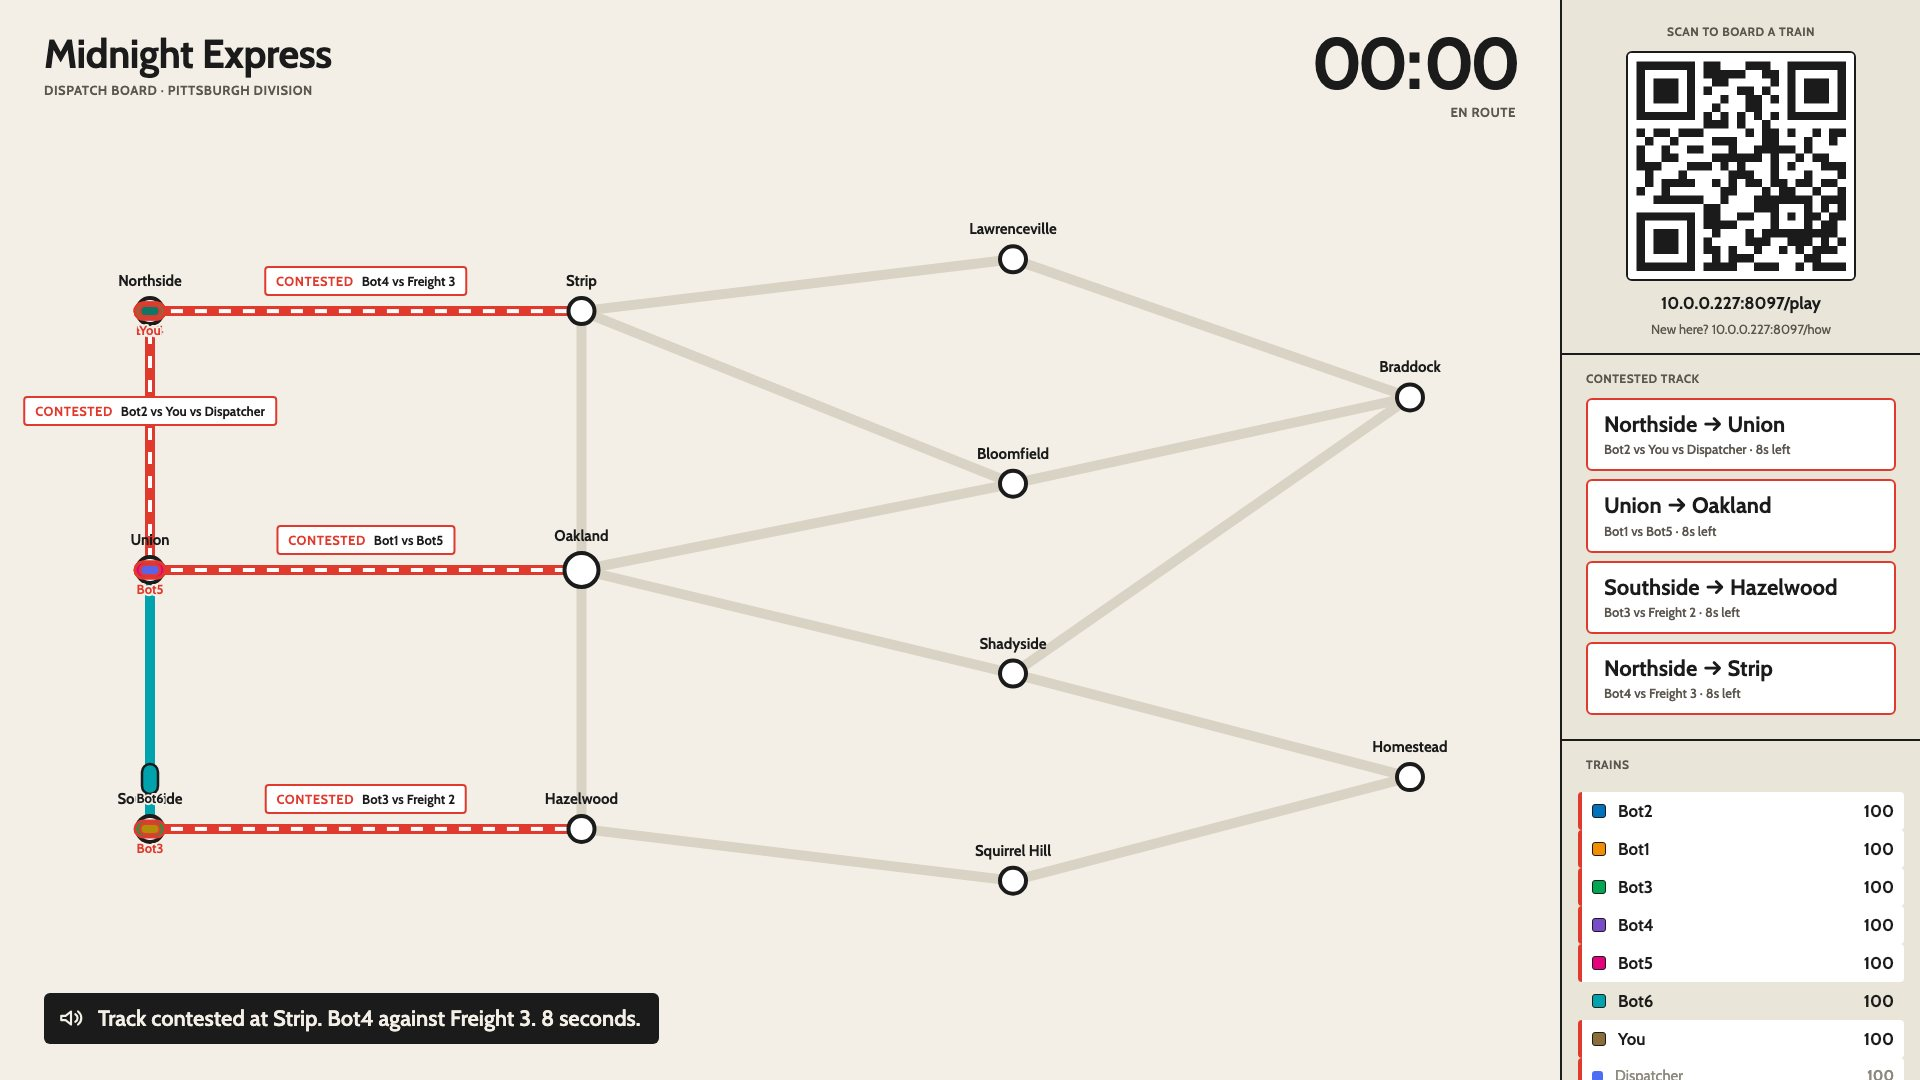
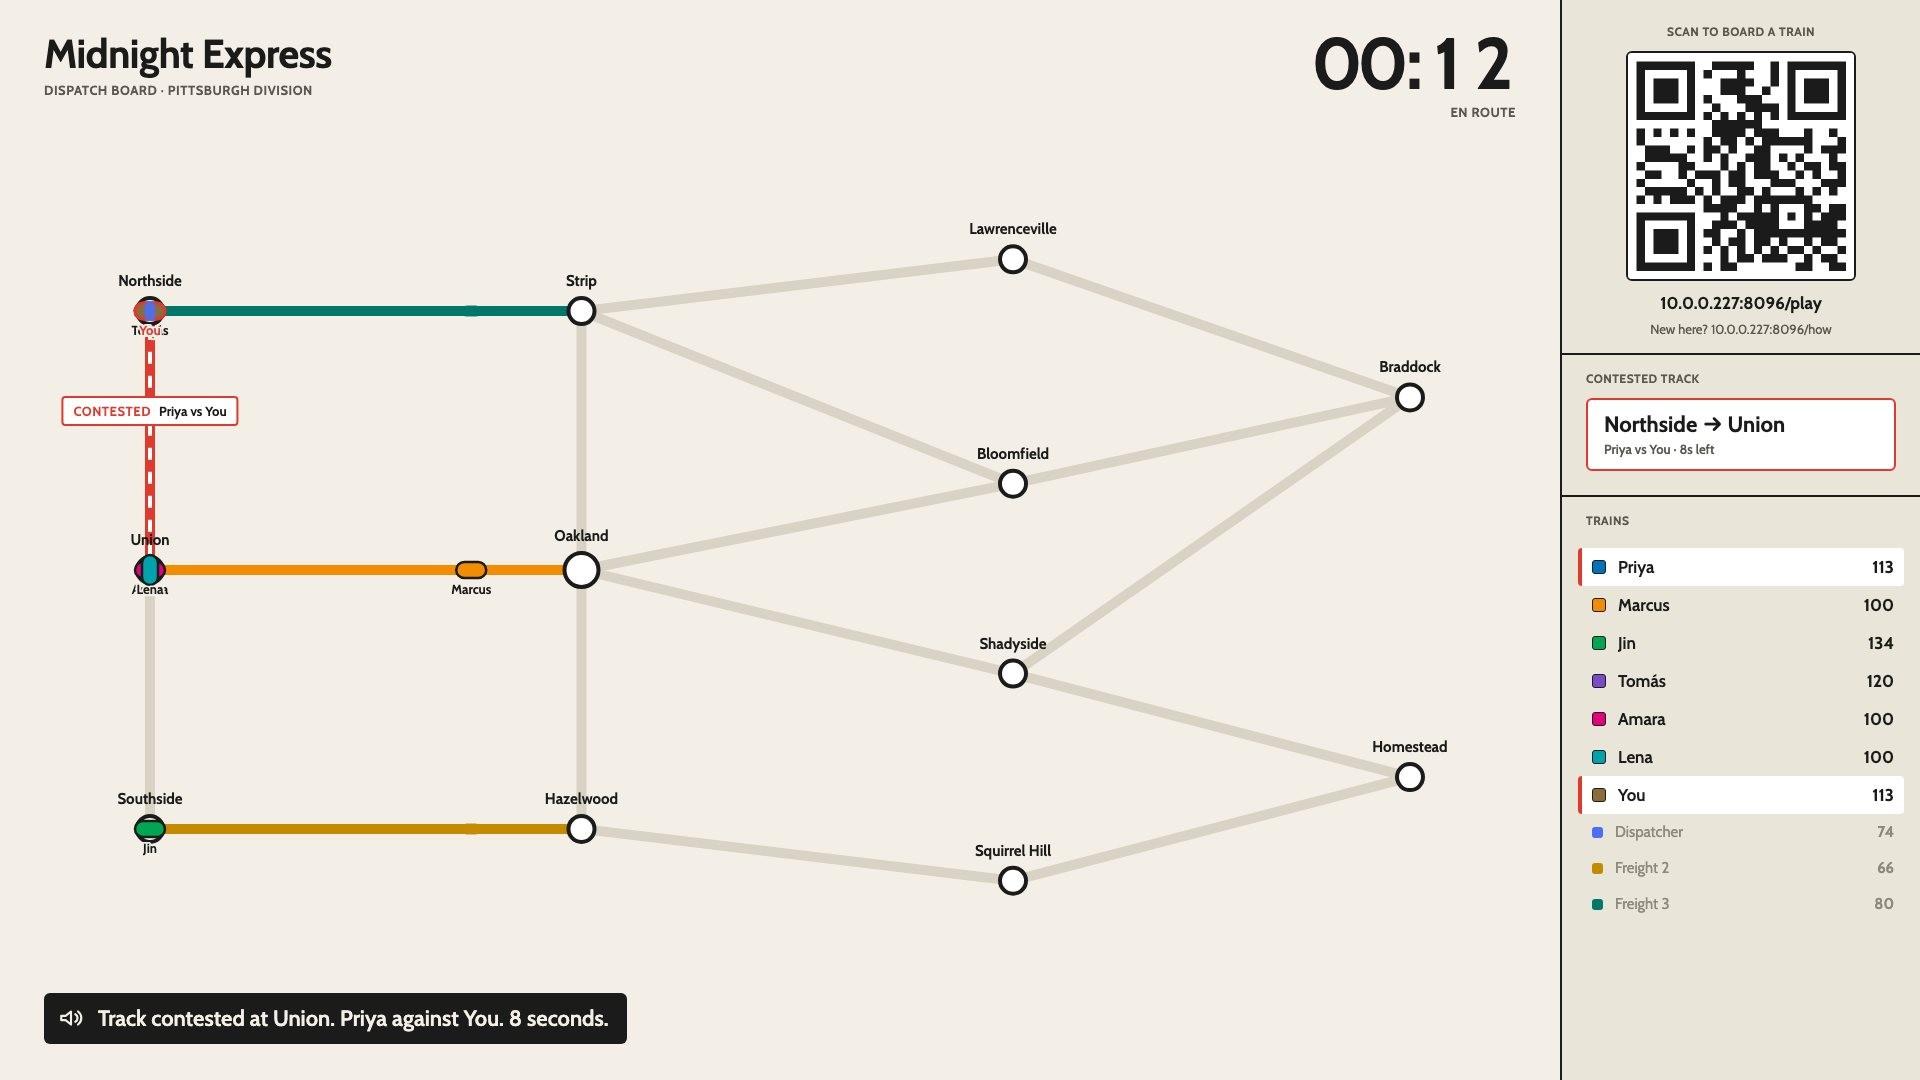
screenshots: named bots, mid-run contest capture, share-image composer
loadtest.js takes BOT_NAMES so simulated phones can carry human names in
screenshots and demos. howto-shots.mjs waits for a contest after the trains have
spread out instead of grabbing the departure pile-up. share-image.mjs composes a
1920x1080 share image (board + two phone states + caption) from public/img with
assets inlined as data URIs, for posts and slides. README and rules-page screenshots
regenerated from a named run.

diff --git a/scripts/loadtest.js b/scripts/loadtest.js
@@ -5,6 +5,9 @@ import WebSocket from "ws";
 
 const N = Number(process.argv[2] || 10);
 const BASE = process.argv[3] || `ws://localhost:${process.env.PORT || 8080}`;
+// BOT_NAMES="Priya,Marcus,Jin" gives the fake phones human names (screenshots, demos).
+const NAMES = (process.env.BOT_NAMES || "").split(",").map((s) => s.trim()).filter(Boolean);
+const botName = (i) => NAMES[i] || `Bot${i + 1}`;
 
 const stats = { joined: 0, auctions: 0, bids: 0, settled: 0, arrived: 0, errors: 0, states: 0 };
 const latencies = [];
@@ -14,7 +17,7 @@ function spawn(i) {
   const ws = new WebSocket(`${BASE}/?role=player`);
   let me = null, lastState = 0;
 
-  ws.on("open", () => ws.send(JSON.stringify({ t: "join", name: `Bot${i + 1}` })));
+  ws.on("open", () => ws.send(JSON.stringify({ t: "join", name: botName(i) })));
   ws.on("error", (e) => { stats.errors++; if (stats.errors < 3) console.error("  ws error:", e.message); });
   ws.on("message", (raw) => {
     const m = JSON.parse(raw);
